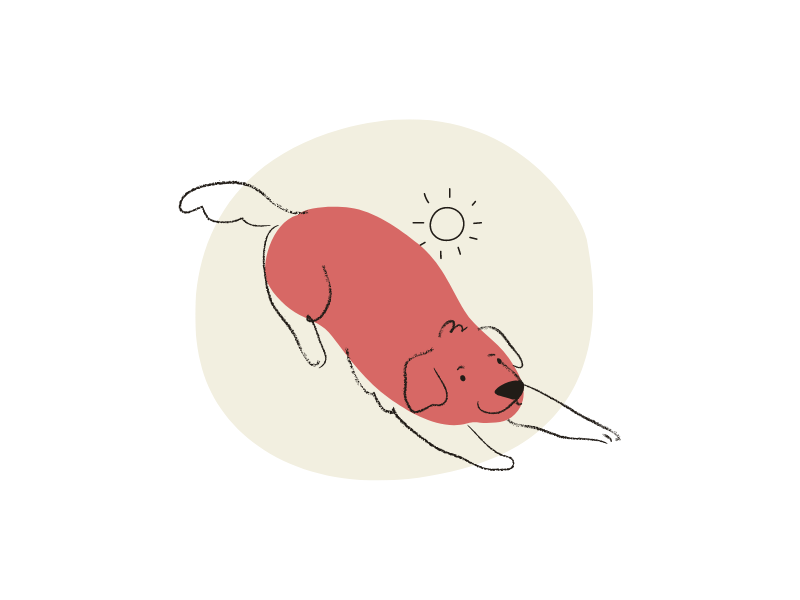
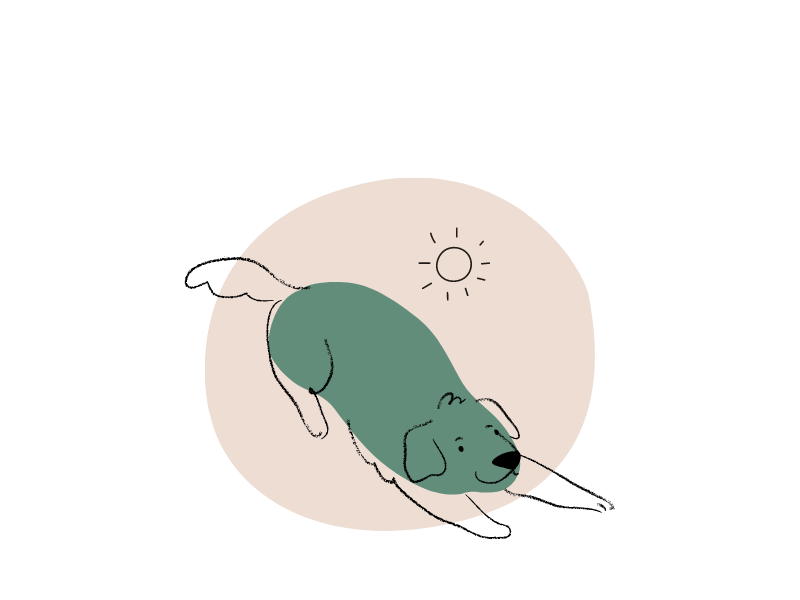
Styling

Changed region(s): [[0.2188, 0.18, 0.7812, 0.9], [0.6875, 0.81, 0.7812, 0.87]]

diff --git a/index.html b/index.html
@@ -54,36 +54,28 @@
         </nav>
         <!-- End of Bootstrap 5 Navbar-->
         
-        <!--Tagline for sm screens-->
-        <section class="container-fluid cream-bg">
-            <div class="row g-0 pt-5 d-flex align-items-center justify-items-center d-md-none">
-                <h1 class=" text-center tagline">Come, Stay, Play!</h1>
+        <!--Hero Section for sm screens-->
+        <section class="container-fluid g-0 pink-bg">
+            <div class="row g-0 d-flex align-items-center justify-items-center">
+                <h1 class="tagline">When you can't be there...</h1>
+                <img src="assets/images/collage.png" alt="Collage of dog and beach images." class="img-fluid"/>
+                <h1 class="tagline">FloofyDoof Dog Care</h1>
             </div>
+             
+               
+                    
+                
+            </div>
+ 
         </section>
-        <!--Hero Images-->
-        <section class="container-fluid g-0">
-        <div class="row g-0">
-            <!--Hero Image 1 for md screens-->
-            <div class="d-none d-md-block col-md-6">
-                <img src="assets/images/hero-1.png" class="w-100">
-            </div>
-            <!--Hero Image 2-->
-            <div class="col-sm-12 col-md-6">
-                <img src="assets/images/hero-2.png" class="w-100">
-            </div>
-        </div>
+
+        
     </header>
 
     <main>
         
         <!---------ABOUT SECTION----->
         <section id="about">
-            <!--Collage Image for md+ screens only-->
-            <div class="container-fluid g-0 d-none d-md-block"> 
-                <div class="row g-0">
-                    <img src="assets/images/collage.png" alt="Collage of dog and beach images." class="img-fluid"/>
-                </div>
-            </div>
             <!--Title-and-Text-->
             <div class="container-fluid g-0 p-5 cream-bg">
                 <div class="row d-flex align-items-center g-0">
@@ -109,41 +101,41 @@
         <!---------SERVICES SECTION----->
         <section id="services">
             
-            <div class="container-fluid cream-bg g-0">
-                <div class="row d-flex justify-content-center align-items-center g-0">
+            <div class="container-fluid pink-bg g-0">
+                <div class="row cta d-flex justify-content-center align-items-center g-0">
                     <!--Title-->
-                    <div class="col-lg-3 d-flex pt-lg-5 justify-content-center justify-content-lg-end">
+                    <div class="col-lg-3 pt-3">
                         <h1 class="title-text">Services</h1>
                     </div>
                 </div>
             </div>
             <!--Bootstrap 5 Cards-->
-            <div class="container-fluid g-0  green-bg pt-3">
-                <div class="row my-5 g-0 p-0 card-bg"> 
-                    <div class="col-md-4">
+            <div class="container-fluid g-0 px-5  cream-bg">
+                <div class="row g-0 card-bg"> 
+                    <div class="col-lg-4">
                         <div class="card opaque no-border h-100">
-                            <img src="assets/images/walking.png" class="card-img-top" alt="Dog leaps over a tree trunk with a ball in it's mouth."/>
-                            <div class="card-body p-0 custom-card-border services">
-                                <h5 class="card-title custom-card-titles">Walking</h5>
-                                <p class="mb-3 card-text">Can't get your dog out?<br/>Let them join us for a walk!</p>
+                            <img src="assets/images/walking.png" class="card-img-top"/>
+                            <div class="card-bodycustom-card-border services">
+                                <h5 class="mb-0 card-title custom-card-titles">Walking</h5>
+                                <p class="mb-0 mb-lg-3 card-text">Woof-tastic fun!</p>
                             </div>
                         </div>
                     </div>
-                    <div class="col-md-4">
+                    <div class="col-lg-4">
                         <div class="card opaque no-border h-100">
-                            <img src="assets/images/daycare.png" class="card-img-top" alt="Dog looking up excitedly at a person about to throw a frisbee."/>
-                            <div class="card-body p-0 custom-card-border services">
-                                <h5 class="card-title custom-card-titles">Day-Care</h5>
-                                <p class="mb-3 card-text">Going out for the day?<br/>Drop your doggo with us to play!</p>
+                            <img src="assets/images/daycare.png" class="card-img-top"/>
+                            <div class="card-body custom-card-border services">
+                                <h5 class="mb-0 card-title custom-card-titles">Day-Care</h5>
+                                <p class="mb-0 mb-lg-3 card-text">Come, stay, play!</p>
                             </div>
                         </div>
                     </div>
-                    <div class="col-md-4">
+                    <div class="col-lg-4">
                         <div class="card opaque no-border h-100">
-                            <img src="assets/images/boarding.png" class="card-img-top" alt="Lurcher-type dog lies on a bed looking sleepy."/>
+                            <img src="assets/images/boarding.png" class="card-img-top"/>
                             <div class="card-body p-0 custom-card-border services">
-                                <h5 class="card-title custom-card-titles">Boarding</h5>
-                                <p class="mb-3 card-text">Going away on holiday?<br/>Your dog can stay!</p>
+                                <h5 class="mb-0 card-title custom-card-titles">Boarding</h5>
+                                <p class="mb-0 mb-lg-3 card-text">A home from home.</p>
                             </div>
                         </div>
                     </div>
@@ -151,10 +143,10 @@
             </div>
             
             <!-- CTA TEXT/BUTTON -->
-            <div class="cta row g-0 cream-bg py-3">
-                <div class="container d-flex justify-content-center">
-                    <div class="col-md-9">
-                        <p class="d-flex justify-content-md-end black-text">Reach out to find out more, or fill out our contact-form!</p>
+            <div class="row g-0 cream-bg pt-5 pb-2 pb-lg-5">
+                <div class="container d-flex px-3 justify-content-center">
+                    <div class="col-lg-9">
+                        <p class="black-text">Find Out More</p>
                         <a class="btn background-slide custom-button" data-bs-toggle="modal" data-bs-target="#modal-form">Contact Form</a>
                     </div>
                 </div>
@@ -165,6 +157,14 @@
 
         <!-- GALLERY SECTION  -->
         <section id="gallery" class="container-fluid g-0 p-0">
+            <div class="container-fluid pink-bg g-0">
+                <div class="row cta d-flex justify-content-center align-items-center g-0">
+                    <!--Title-->
+                    <div class="col-lg-3 pt-3">
+                        <h1 class="title-text">Gallery</h1>
+                    </div>
+                </div>
+            </div>
             <div class="row d-flex justify-content-center g-0">
                 <div class="col-md-4">
                     <img src="assets/images/img-1.png" class="img-fluid" alt="">
@@ -194,64 +194,34 @@
         
            
         <!---------CONTACT SECTION----->
-        <section id="contact" class="container-fluid g-0 cream-bg">
+        <section id="contact" class="container-fluid g-0 cream-bg pb-3">
             
-            <div class="row d-flex justify-content-center g-0 px-1">
-                <!-- VECTOR-3-->
-                <div class="d-lg-none mt-3 d-flex justify-content-center">
-                    <img src="assets/images/vector-3.png" class="img-fluid">
-                </div>
+            <div class="row d-flex justify-content-center pink-bg g-0">
                 <!-- TITLE -->
-                <div class="col d-flex justify-content-center mt-lg-4">
-                    <h1 class="title-text px-2">Get In Touch</h1>
+                <div class="col pt-3 d-flex justify-content-center">
+                    <h1 class="title-text">Get In Touch</h1>
                 </div>
             </div>
 
             <!-- BLURB -->
-            <div class="row d-flex align-items-center g-0 pt-3 mx-lg-5">
-                <div class="text-center contact-text">
-                    <p>Call, email or drop in to see us!  Alternatively, fill out our contact formand we will get back to you within 48 hours...</p>
+            <div class="row d-flex align-items-center g-0 pt-3 px-3 mx-lg-5">
+                <div class="text-center custom-text">
+                    <p>Call, email or drop in to see us!  Alternatively, fill out our contact form and we will get back to you within 48 hours...</p>
                 </div>
             </div>
             <!-- CTA BUTTON -->
             <div class="row d-flex align-items-center g-0 mb-3 mb-lg-0">
-                <div class=" d-flex justify-content-center text-center">
+                <div class=" d-flex justify-content-center text-center pb-3">
                     <a class="btn background-slide custom-button" data-bs-toggle="modal" data-bs-target="#modal-form">Contact Form</a>
                 </div>
             </div>
-            <!-- VECTOR-3 lg+ screens -->
-
-            <div class="row d-flex justify-content-start g-0 m-0">
-                <div class="col-2 mx-5 d-lg-block d-none d-flex justify-content-start">
-                    <img src="assets/images/vector-3.png" class="img-fluid">
-                </div>
-                
-            </div>
-
-            <!--MAP-->
-            <div class="row important-text d-flex justify-content-center align-items-center g-0 mx-lg-5">
-                <div class="embed-responsive embed-responsive-1by1">
-                    <iframe src="https://www.google.com/maps/embed?pb=!1m18!1m12!1m3!1d1766.8315466479446!2d-3.714283122081024!3d51.225023089083834!2m3!1f0!2f0!3f0!3m2!1i1024!2i768!4f13.1!3m3!1m2!1s0x486dd6de15f95ca1%3A0xf61d3273a38a90d0!2sYenworthy%20Lodge!5e0!3m2!1sen!2suk!4v1657573490885!5m2!1sen!2suk"
-                    style="border-radius: 5px;" width="100%" height="auto"
-                    allowfullscreen="" loading="lazy" referrerpolicy="no-referrer-when-downgrade" class="embed-responsive-item"></iframe>
-                </div>
-                <!--CONTACT DETAILS-->
-                <div class="col-md-4">
-                    <span><i class="fa-solid fa-location-dot icon"></i></span><span>Yenworthy Lodge, Oare, EX35 6NY</span>
-                </div>       
-                <div class="col-md-4">
-                    <span><i class="fa-solid fa-phone icon"></i></span><span>01643 70951</span>
-                </div>
-                <div class="col-md-4">
-                    <span><i class="fa-solid fa-envelope icon"></i></span><span>contact@floofy.co.uk</span>
-                </div>
-            </div>
+            
             
         </section>
 
         <!-- BACK-TO-TOP -->
-        <section class="cream-bg coral-top">
-            <div class="container-fluid g-0 text-center nunito mt-5">
+        <section class="pink-bg">
+            <div class="container-fluid g-0 text-center nunito">
                 <a href="#" class="link-effect link-dark">Back to Top</a>
         </section>
 
@@ -259,35 +229,54 @@
     
     <!-- FOOTER -->
     <footer class="container-fluid coral-bg g-0">
-        <div class="row align-items-center justify-content-center">
-            <div class="col-4 text-center pt-4">
+        <div class="row align-items-center g-0 justify-content-center">
+            <div class="col-6 text-center pt-4">
                 <ul class="list-inline media-links">
                     <li class="list-inline-item">
                         <a target="_blank" href="https://www.facebook.com">
                             <i class="fa-brands fa-facebook-square sm-icon" aria-hidden="true"></i>
-                            <span class="sr-only">Facebook</span>
+                            <span>Facebook</span>
                         </a>
                     </li>
                     <li class="list-inline-item">
                         <a target="_blank" href="https://twitter.com">
                             <i class="fa fa-twitter sm-icon" aria-hidden="true"></i>
-                            <span class="sr-only">Twitter</span>
+                            <span>Twitter</span>
                         </a>
                     </li>
                     <li class="list-inline-item">
                         <a target="_blank" href="https://www.instagram.com">
                             <i class="fa fa-instagram sm-icon" aria-hidden="true"></i>
-                            <span class="sr-only">Instagram</span>
+                            <span>Instagram</span>
                         </a>
                     </li>
                 </ul>
+            </div>
+        </div>
+        <div class="row align-items-center g-0 justify-content-center">
+            <!--CONTACT DETAILS-->
+            <div class="col-lg-4">
+                <span><i class="fa-solid fa-location-dot icon"></i></span><span>Yenworthy Lodge, Oare, EX35 6NY</span>
+            </div>       
+            <div class="col-lg-4">
+                <span><i class="fa-solid fa-phone icon"></i></span><span>01643 70951</span>
+            </div>
+            <div class="col-lg-4">
+                <span><i class="fa-solid fa-envelope icon"></i></span><span>contact@floofy.co.uk</span>
+            </div>
+            <div class="col-8">
+                <div class="embed-responsive embed-responsive-1by1">
+                    <iframe src="https://www.google.com/maps/embed?pb=!1m18!1m12!1m3!1d1766.8315466479446!2d-3.714283122081024!3d51.225023089083834!2m3!1f0!2f0!3f0!3m2!1i1024!2i768!4f13.1!3m3!1m2!1s0x486dd6de15f95ca1%3A0xf61d3273a38a90d0!2sYenworthy%20Lodge!5e0!3m2!1sen!2suk!4v1657573490885!5m2!1sen!2suk"
+                    style="border-radius: 5px;" width="100%" height="auto"
+                    allowfullscreen="" loading="lazy" referrerpolicy="no-referrer-when-downgrade" class="embed-responsive-item"></iframe>
+                </div>
             </div>
         </div>
         <!-- HR -->
         <hr class="cream m-0"/>
         <!-- COPYRIGHT -->
         <div class="row g-0 p-0 d-flex justify-content-center">
-            <div class="col-4 g-0 ">
+            <div class="col-6 g-0 ">
                 <p class="copyright pt-1">Copyright © 2022 Floofy Doof Dog Care</p>
             </div>
         </div>

diff --git a/assets/css/stylesheet.css b/assets/css/stylesheet.css
@@ -8,8 +8,8 @@
 
 body {
     
-    padding: 70px 0px 0px 0px;
-    background-color:#628D7B;
+    padding: 50px 0px 0px 0px;
+    background-color:#F1EEE7;
     color: black;
     text-align: center;
 
@@ -171,9 +171,10 @@ body {
 
 /* HERO */
 .tagline {
-    font-size: 10vw !important;
+    font-size: 5vw !important;
     font-family: 'DM Serif Display', serif;
     letter-spacing: 1;
+    text-align: center;
 }
 
 
@@ -186,16 +187,9 @@ body {
     
 }
 
-.card-text {
-    font-size: 2.5vh !important;
-    font-weight: 300;
-    font-family: 'Nunito Sans', sans-serif;
-    text-align:center;
-    
-}
 
 .title-text {
-    font-size: 6vh !important;
+    font-size: 5vh !important;
     letter-spacing: 1px;
     font-family: 'DM Serif Display', serif;
     
@@ -212,14 +206,15 @@ body {
     
 }
 
-.contact-text {
-    font-size: 3vh !important;
+.card-text {
+    font-size: 2.5vh !important;
     font-weight: 300;
     font-family: 'Nunito Sans', sans-serif;
-    
-    
+    text-align: center;
+    line-height: 150%;
     
 }
+
 
 .black-text {
     font-size: 2.5vh !important;
@@ -243,7 +238,7 @@ body {
 
 /* CONTACT SECTION*/
 .important-text {
-    font-size: 2vh !important;
+    font-size: 1.5vh !important;
     font-weight: 500;
     font-family: 'Nunito Sans', sans-serif;
     
@@ -273,18 +268,17 @@ body {
 
 }
 
+
+
 .no-border {
     border: 0 !important;
 }
 
 .cta {
-    border-top:#D76865 solid 8px;
-    border-bottom:#D76865 solid 8px;
+    border-top:#EDDDD3 solid 8px;
+    border-bottom:#EDDDD3 solid 8px;
 }
 
-.coral-top {
-    border-top: #D76865 solid 8px;
-}
 
 /* -------------------------COLORS----------------------- */
 .opaque {
@@ -297,6 +291,10 @@ body {
 
 .green-bg {
     background-color: #628D7B !important;
+}
+
+.pink-bg {
+    background-color: #EDDDD3 !important;
 }
 
 .coral-bg {
